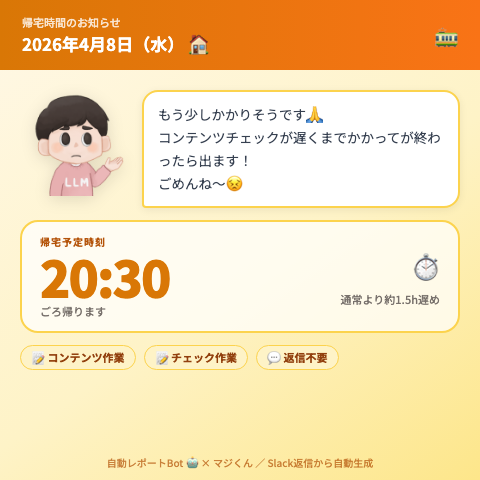
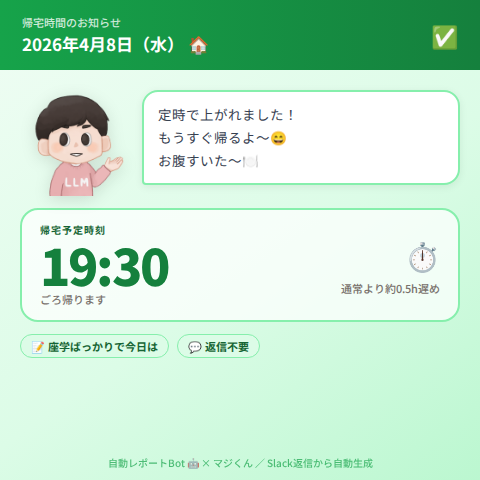
📸 帰宅レポート: 2026-04-08

diff --git a/archive/index.html b/archive/index.html
@@ -18,8 +18,8 @@
           <img src="https://kitaku-archive.surge.sh/cards/2026-04-08.png" alt="2026-04-08 帰宅カード" class="w-full">
           <div class="px-4 py-3">
             <div class="text-sm font-bold text-slate-700">2026-04-08</div>
-            <div class="text-xs text-slate-500 mt-1">🕐 20:30 ／ 📝 コンテンツチェックが遅くまでかかって</div>
-            <div class="text-xs text-slate-400 mt-1">送信: 2026/04/08 08:16</div>
+            <div class="text-xs text-slate-500 mt-1">🕐 19:30 ／ 📝 座学ばっかりで今日は早いのかな</div>
+            <div class="text-xs text-slate-400 mt-1">送信: 2026/04/08 08:46</div>
           </div>
         </div>
     </div>
